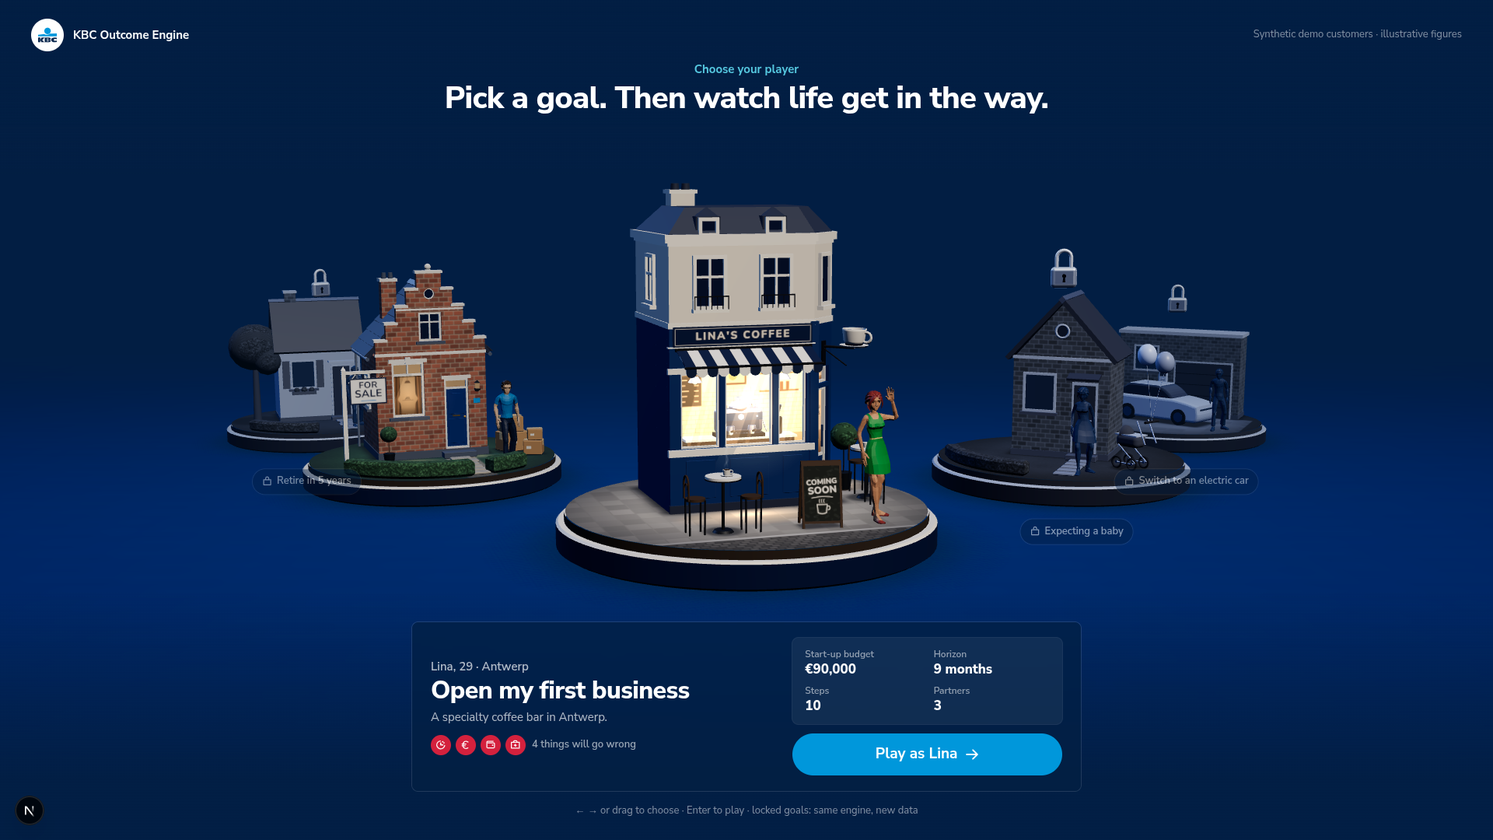
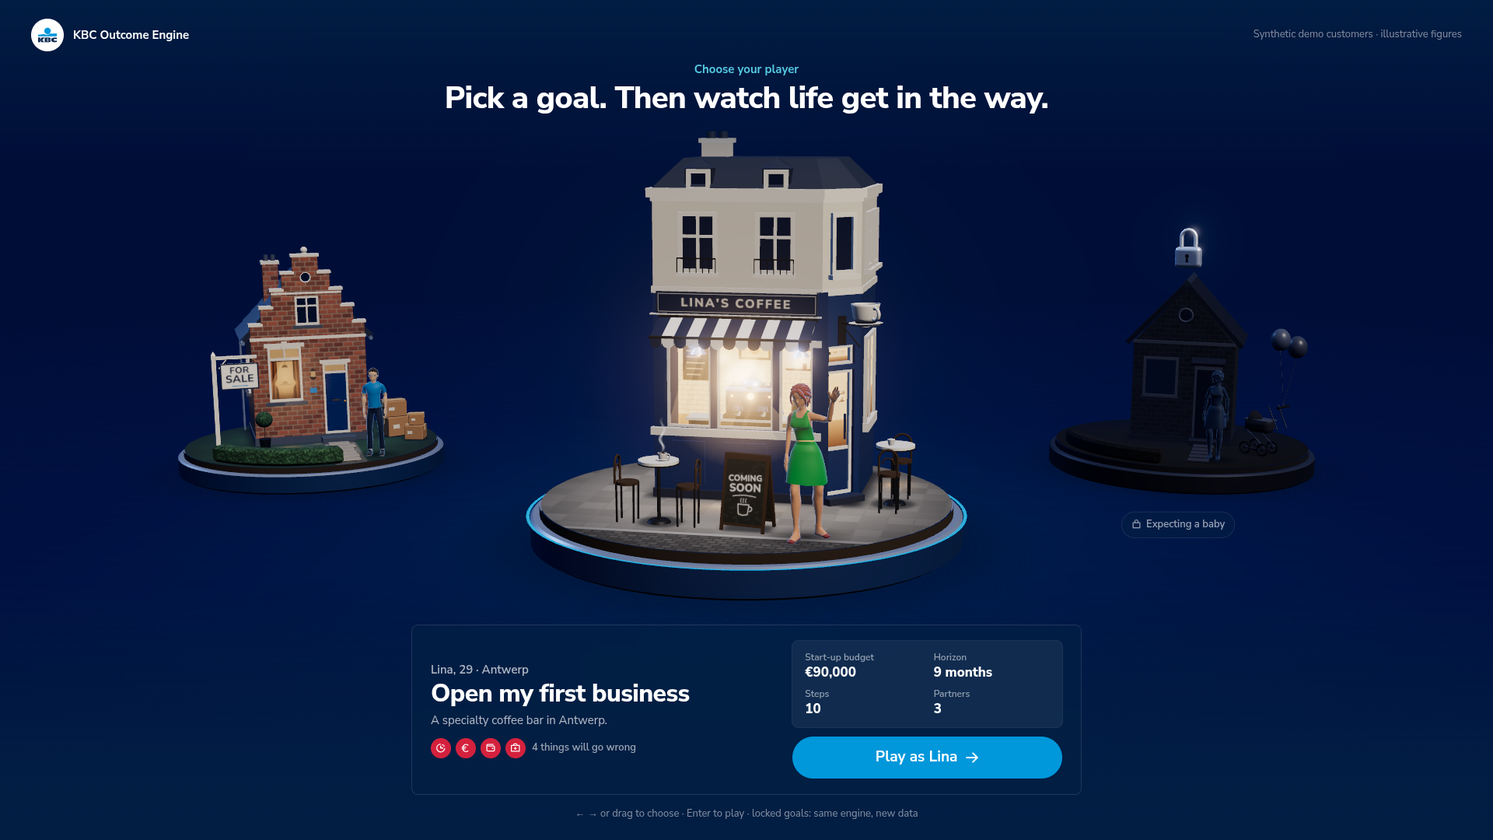
Picker 3D: second art pass (sharper window, glide into the phone, weighted people) + docs, prod screenshots, fps table
- Window texture 512×720 (the dive ends on it), scene exposure sinks into night before the light,
  bloom eases down during the dive; quarter-res bloom and DPR 1 with bloom (52 fps at 1080p).
- Handoff: 600 ms glide (no snap), home shows through from 380 ms, backdrop in 80 ms.
- People: Idle_Neutral, larger contact shadow. Stage top 2.85 so chimneys clear the headline.
- Doc: quality switches (?bloom=0, ?q=auto, ?q=low), choreography, decisions, DoD ticked.

diff --git a/web/src/components/picker/handoff.ts b/web/src/components/picker/handoff.ts
@@ -10,7 +10,7 @@ export interface ScreenRect { left: number; top: number; width: number; height: 
 const WARM = "#ffe2bd";
 const SCREEN = "#f2f2f2"; // KDL surface background = the phone screen colour
 const GLOW = "0 0 56px 6px rgb(255 207 150 / 0.35)";
-const EASE = "cubic-bezier(0.23, 1, 0.32, 1)";
+const EASE = "cubic-bezier(0.65, 0, 0.35, 1)"; // a glide, not a snap: the light travels ~200 px
 // Phone.tsx: 10px bezel and 50px inner radius at scale 1, frame FRAME_W × FRAME_H.
 const BEZEL = 10;
 const RADIUS = 50;
@@ -49,8 +49,10 @@ export function createHandoff(reduce: boolean): Handoff {
       Object.assign(card.style, { left: `${rect.left}px`, top: `${rect.top}px`, width: `${rect.width}px`, height: `${rect.height}px` });
       await Promise.all([
         card.animate([{ opacity: 0 }, { opacity: 1 }], { duration: ms, easing: "ease-out", fill: "forwards" }).finished,
-        backdrop.animate([{ opacity: 0 }, { opacity: 1 }], { duration: 260, easing: "ease-out", fill: "forwards" }).finished,
+        backdrop.animate([{ opacity: 0 }, { opacity: 1 }], { duration: 80, easing: "ease-out", fill: "forwards" }).finished,
       ]);
+      // Stage mounts now (250–300 ms): a slow breath so the light never looks frozen.
+      card.animate([{ filter: "brightness(1)" }, { filter: "brightness(1.12)" }, { filter: "brightness(1)" }], { duration: 600, iterations: Infinity, easing: "ease-in-out" });
     },
 
     async land() {
@@ -70,11 +72,11 @@ export function createHandoff(reduce: boolean): Handoff {
           { left: `${from.left}px`, top: `${from.top}px`, width: `${from.width}px`, height: `${from.height}px`, borderRadius: "3px", background: WARM, boxShadow: GLOW },
           { left: `${to.left}px`, top: `${to.top}px`, width: `${to.width}px`, height: `${to.height}px`, borderRadius: `${to.radius}px`, background: SCREEN, boxShadow: "0 0 0 0 rgb(255 207 150 / 0)" },
         ],
-        { duration: 480, easing: EASE, fill: "forwards" },
+        { duration: 600, easing: EASE, fill: "forwards" },
       );
-      const reveal = backdrop.animate([{ opacity: 1 }, { opacity: 0 }], { duration: 420, delay: 120, easing: "ease-out", fill: "forwards" });
+      const reveal = backdrop.animate([{ opacity: 1 }, { opacity: 0 }], { duration: 440, delay: 160, easing: "ease-out", fill: "forwards" });
       // The home screen shows through as the light lands, not after it.
-      const fade = card.animate([{ opacity: 1 }, { opacity: 0 }], { duration: 180, delay: 300, easing: "ease-out", fill: "forwards" });
+      const fade = card.animate([{ opacity: 1 }, { opacity: 0 }], { duration: 200, delay: 380, easing: "ease-out", fill: "forwards" });
       await Promise.all([morph.finished, reveal.finished, fade.finished]);
       remove();
     },

diff --git a/web/src/components/picker/PickerCanvas.tsx b/web/src/components/picker/PickerCanvas.tsx
@@ -42,7 +42,7 @@ const PERSON: Record<DioramaId, CharacterId> = { house: "thomas", business: "lin
 const CAM_POS = new THREE.Vector3(0, 2.9, 11.9);
 const CAM_LOOK = new THREE.Vector3(0, 0.5, -1.4);
 // Framing: the stage (roof tops to the plinth's front edge) is fitted into the free band.
-const STAGE_TOP = 2.65;
+const STAGE_TOP = 2.85; // Lina's chimney pots reach 2.83
 const STAGE_BOTTOM = -0.34;
 const BAND_MARGIN = 6;
 const CARD_GAP = 16; // Band.bottom sits this far above the card
@@ -51,6 +51,10 @@ const FLY_MS = 950;
 const SETTLE_MS = 350;
 const END_FOV = 26;
 const WINDOW_FILL = 0.86;
+const smoothstep = (a: number, b: number, x: number) => {
+  const t = Math.min(1, Math.max(0, (x - a) / (b - a)));
+  return t * t * (3 - 2 * t);
+};
 const ease = {
   inOutCubic: (x: number) => (x < 0.5 ? 4 * x * x * x : 1 - Math.pow(-2 * x + 2, 3) / 2),
 };
@@ -80,7 +84,8 @@ export default function PickerCanvas(props: PickerCanvasProps) {
       live.current.onFail("init");
       return;
     }
-    const dpr = Math.min(window.devicePixelRatio || 1, 1.5);
+    // Bloom works over a multisampled full-frame target: cap at DPR 1 then, or 150 % laptops drop to 25 fps.
+    const dpr = Math.min(window.devicePixelRatio || 1, quality.bloom ? 1 : 1.5);
     renderer.setPixelRatio(dpr);
     renderer.outputColorSpace = THREE.SRGBColorSpace;
     renderer.toneMapping = THREE.ACESFilmicToneMapping;
@@ -211,7 +216,7 @@ export default function PickerCanvas(props: PickerCanvasProps) {
       composer?.setPixelRatio(dpr);
       composer?.setSize(w, h);
       calmFrom = Math.max(calmFrom, performance.now() + 1500);
-      bloom.resolution.set((w * dpr) / 2, (h * dpr) / 2);
+      bloom.resolution.set((w * dpr) / 4, (h * dpr) / 4); // quarter resolution: a glow needs no detail
       view.w = w;
       view.h = h;
       if (!diving) fit();
@@ -367,8 +372,12 @@ export default function PickerCanvas(props: PickerCanvasProps) {
           camera.lookAt(tmp[4].lerpVectors(fromLook, wp, eLook));
           camera.fov = fromFov + (END_FOV - fromFov) * e;
           setViewY(fromViewY * (1 - eLook)); // end centred on screen
-          d.setFocus(1 + 0.3 * e); // a little brighter, never clipped: the curtains and lamp stay readable
+          d.setFocus(1 + 0.1 * e); // the curtains and lamp stay readable up close
           diveFade = e;
+          // The street sinks into night before the light takes over; the window ignores tone mapping and stays lit.
+          const night = smoothstep(0.72, 1, k);
+          renderer.toneMappingExposure = 1.1 * (1 - 0.9 * night);
+          bloom.strength = 0.55 * (1 - 0.65 * e);
           if (!covered && k >= 0.92) {
             covered = true;
             onCover(120, screenRect(d.window, box));

diff --git a/web/src/components/picker/dioramas.ts b/web/src/components/picker/dioramas.ts
@@ -359,8 +359,9 @@ function paintAwning(): HTMLCanvasElement {
 
 /** Warm room seen through a window: lamp-lit wall and curtains (luminance; tinted by the material colour). */
 function paintWindow(): HTMLCanvasElement {
-  const W = 128;
-  const H = 180;
+  const K = 4; // the dive ends with this window filling the screen: paint it at 512×720 (once)
+  const W = 128 * K;
+  const H = 180 * K;
   const { c, g } = makeCanvas(W, H);
   const bg = g.createRadialGradient(W * 0.5, H * 0.28, 4, W * 0.5, H * 0.42, H * 0.75);
   bg.addColorStop(0, "#ffffff");
@@ -370,21 +371,21 @@ function paintWindow(): HTMLCanvasElement {
   g.fillRect(0, 0, W, H);
   // pendant lamp
   g.fillStyle = "rgba(70,45,30,0.65)";
-  g.fillRect(W / 2 - 1, 0, 2, 22);
+  g.fillRect(W / 2 - K, 0, 2 * K, 22 * K);
   g.beginPath();
-  g.moveTo(W / 2 - 15, 34);
-  g.lineTo(W / 2 + 15, 34);
-  g.lineTo(W / 2 + 8, 22);
-  g.lineTo(W / 2 - 8, 22);
+  g.moveTo(W / 2 - 15 * K, 34 * K);
+  g.lineTo(W / 2 + 15 * K, 34 * K);
+  g.lineTo(W / 2 + 8 * K, 22 * K);
+  g.lineTo(W / 2 - 8 * K, 22 * K);
   g.closePath();
   g.fill();
   // a shelf with a plant silhouette in the back
   g.fillStyle = "rgba(90,60,40,0.35)";
-  g.fillRect(W * 0.3, H * 0.62, W * 0.4, 3);
+  g.fillRect(W * 0.3, H * 0.62, W * 0.4, 3 * K);
   g.fillStyle = "rgba(60,50,35,0.35)";
   for (let i = 0; i < 7; i++) {
     g.beginPath();
-    g.ellipse(W * 0.42 + i * 3, H * 0.6 - (i % 3) * 4, 5, 2.5, -0.6 + i * 0.25, 0, Math.PI * 2);
+    g.ellipse(W * 0.42 + i * 3 * K, H * 0.6 - (i % 3) * 4 * K, 5 * K, 2.5 * K, -0.6 + i * 0.25, 0, Math.PI * 2);
     g.fill();
   }
   // curtains (per pixel)
@@ -397,7 +398,7 @@ function paintWindow(): HTMLCanvasElement {
     for (let side = 0; side < 2; side++) {
       for (let x = 0; x < width; x++) {
         const px = side === 0 ? x : W - 1 - x;
-        const fold = 0.66 + 0.2 * Math.sin((x / W) * 46 + side * 1.7 + y * 0.01) - 0.18 * (x / width) * (1 - tie);
+        const fold = 0.66 + 0.2 * Math.sin((x / W) * 46 + side * 1.7 + (y / K) * 0.01) - 0.18 * (x / width) * (1 - tie);
         const i = (y * W + px) * 4;
         d[i] = 248 * fold;
         d[i + 1] = 196 * fold;
@@ -406,7 +407,7 @@ function paintWindow(): HTMLCanvasElement {
     }
   }
   // curtain rail
-  for (let y = 0; y < 6; y++) {
+  for (let y = 0; y < 6 * K; y++) {
     for (let x = 0; x < W; x++) {
       const i = (y * W + x) * 4;
       d[i] *= 0.45;

diff --git a/web/src/components/picker/characterGltf.ts b/web/src/components/picker/characterGltf.ts
@@ -30,7 +30,7 @@ const TINTS: Partial<Record<CharacterId, Record<string, string>>> = {
 const HEIGHT = 1.1;
 const SILHOUETTE = "#1a3152";
 
-const CLIPS: Record<Pose, string> = { idle: "Idle", wave: "Wave", cheer: "Wave" };
+const CLIPS: Record<Pose, string> = { idle: "Idle_Neutral", wave: "Wave", cheer: "Wave" }; // Idle is a combat stance
 const HOP = 0.12;
 
 // A thin cool rim (fresnel) that separates the people from brick walls and the navy background.
@@ -58,18 +58,19 @@ function blobShadow(): THREE.Mesh<THREE.PlaneGeometry, THREE.MeshBasicMaterial> 
     c.width = c.height = 64;
     const g = c.getContext("2d")!;
     const grad = g.createRadialGradient(32, 32, 0, 32, 32, 32);
-    grad.addColorStop(0, "rgba(0,8,24,0.62)");
-    grad.addColorStop(0.45, "rgba(0,8,24,0.34)");
+    grad.addColorStop(0, "rgba(0,8,24,0.78)");
+    grad.addColorStop(0.35, "rgba(0,8,24,0.45)");
     grad.addColorStop(1, "rgba(0,8,24,0)");
     g.fillStyle = grad;
     g.fillRect(0, 0, 64, 64);
     const tex = new THREE.CanvasTexture(c);
     tex.colorSpace = THREE.SRGBColorSpace;
-    blob = { geo: new THREE.PlaneGeometry(0.56, 0.4).rotateX(-Math.PI / 2), tex };
+    // Square: the ~10° camera squashes it into the right ellipse; smaller discs vanish behind the shoes.
+    blob = { geo: new THREE.PlaneGeometry(0.66, 0.66).rotateX(-Math.PI / 2), tex };
   }
   const mat = new THREE.MeshBasicMaterial({ map: blob.tex, transparent: true, depthWrite: false, toneMapped: false, polygonOffset: true, polygonOffsetFactor: -2 });
   const m = new THREE.Mesh(blob.geo, mat);
-  m.position.y = 0.004;
+  m.position.set(0, 0.004, 0.05);
   m.renderOrder = 1;
   return m;
 }

diff --git a/docs/features/persona-picker-3d.md b/docs/features/persona-picker-3d.md
@@ -1,5 +1,5 @@
 # Feature — 3D persona carousel at app start
-> Owner: peer session "README hackathon 2026" (ultracode) · Coordinator: kepa · App owner: Victor · Status: in progress (V1 integrated, polishing) · Last update: 12:45
+> Owner: peer session "README hackathon 2026" (ultracode) · Coordinator: kepa · App owner: Victor · Status: V1 on `main` (kepa 81f32f9, merged by the coordinator in 1556de3); art polish continues on `kepa` · Last update: 13:55
 
 ## Goal
 Replace the 2D "Choose your player" cards (`CharacterSelect.tsx`, Victor, see `outcome-engine.md`) with a **3D carousel of miniature life scenes**, then an **entry animation into the phone**, then the existing live demo, unchanged. It makes the app feel premium from the first second (Creativity + Pitch = 50%).
@@ -29,12 +29,12 @@ Replaces the paused "Lucas's World" (`pitch-3d.md`). Reuse its learnings: the Ir
 - Don't touch the engine, backend, or Victor's screens beyond the `Stage` swap.
 
 ## Definition of done
-- [ ] Carousel + entry animation work with keyboard, mouse/drag, and touch.
-- [ ] Fallback to the 2D picker is verified (WebGL off, `?q=low`, small viewport).
-- [ ] Full flow verified in a browser on a prod build: pick Thomas → full demo; C → back; pick Lina → full demo. No console or CSP errors.
-- [ ] fps measured on the GPU (`--use-angle=vulkan --enable-features=Vulkan --ignore-gpu-blocklist`), high + fallback.
-- [ ] `npm run lint`, `npm test`, `npm run build` green in `web/`.
-- [ ] Screenshots in `docs/screenshots/picker-3d/`; this doc + `SOLUTION.md` updated; Victor informed.
+- [x] Carousel + entry animation work with keyboard, mouse/drag, and touch.
+- [x] Fallback to the 2D picker is verified (WebGL off, `?q=low`, small viewport; `?q=auto` on a throttled GPU).
+- [x] Full flow verified in a browser on a prod build: pick Thomas → full demo; C → back; pick Lina → full demo. No console or CSP errors (13:13, kepa 81f32f9).
+- [x] fps measured on the GPU (`--use-angle=vulkan --enable-features=Vulkan --ignore-gpu-blocklist`), high + fallback (table below).
+- [x] `npm run lint`, `npm test`, `npm run build` green in `web/`.
+- [x] Screenshots in `docs/screenshots/picker-3d/`; this doc + `SOLUTION.md` updated. Victor: Stage.tsx swap flagged "Victor FYI" in e8dbf30; the coordinator relays.
 
 ## Implementation plan (12:10)
 
@@ -63,21 +63,26 @@ Replaces the paused "Lucas's World" (`pitch-3d.md`). Reuse its learnings: the Ir
 **Play, step by step:**
 1. **Trigger.** Enter (Stage calls `pickerPlay.current`), a click on the centred diorama, or the "Play as …" button.
 2. **Overlay.** `createHandoff()` puts a fixed overlay on `document.body`.
-3. **Dive.** `PickerCanvas` settles the turntable to face the camera, then flies the camera into the lit window (ease-in, FOV 30 → 26, about 0.9 s). At 68% of the flight it calls `cover()`: the warm light fades in over the 3D scene.
-4. **Mount.** `onPlay(id)` lets Stage switch to `home`; the picker unmounts and disposes its WebGL context.
-5. **Land.** `land()` waits for `[data-phone-anchor]`, measures it, then:
-   - morphs the light (WAAPI) into the phone screen: inset by the 10 px bezel × scale, 50 px radius × scale, warm → `#F2F2F2`;
-   - fades the night backdrop so the phone frame and the HUD appear around it;
-   - fades the light out to reveal the home screen. Kate's notification follows as before.
-6. **Reduced motion.** A 200 ms crossfade instead of the dive.
+3. **Dive (950 ms).** The UI and its scrims leave (160 ms, 12 px down). In parallel, the turntable settles to face the camera (350 ms), the person cheers (Wave + one 0.12 hop), and the camera flies onto the lit window's axis:
+   - ease-in-out, FOV → 26, the band view offset → 0;
+   - it stops where the window fills 86% of the screen height;
+   - the window's glow rises a little (×1.3, never clipped) and its halo fades out.
+4. **Cover.** At 92% of the flight it projects the window's 4 corners and calls `cover(120, rect)`. A warm card lights exactly that rectangle while the night backdrop (260 ms) hides the rest of the scene. No full-screen flash on a dark projector.
+5. **Mount.** `onPlay(id)` lets Stage switch to `home` behind the backdrop; the picker unmounts and disposes its WebGL context (its mount hitch is hidden).
+6. **Land.** `land()` waits for `[data-phone-anchor]`, measures it, then:
+   - morphs the window rectangle (WAAPI, 480 ms) into the phone screen: inset by the 10 px bezel × scale, 50 px radius × scale, warm → `#F2F2F2`;
+   - fades the backdrop so the phone frame and the HUD appear around it;
+   - fades the card out from 300 ms, so the home screen shows through as it lands. Kate's notification follows as before. About 1.7 s from Enter to the home screen.
+7. **Reduced motion.** A 200 ms crossfade instead of the dive.
 
 **Carousel:**
 - Cover-flow order: retire · **Thomas** · **Lina** · baby · car.
+- **Framing:** `CharacterSelect3D` measures the free band between the headline and the player card. `PickerCanvas` shrinks the FOV (never enlarges) and sets a camera view offset so the stage (roofs to plinth front) sits centred in that band; picking and the DOM overlay follow the camera. Under 860 px height the card collapses to one line of facts. Checked at 1920×1080, 1536×864, 1366×768 and 1280×720.
 - Critically damped spring on a continuous `focus` index. A drag maps pixels to focus; release snaps to the nearest playable item. A tap is a raycast: a side item selects, the centred item plays, a locked item wiggles.
 - Each diorama sways gently on its turntable; off under reduced motion.
 - DOM over the canvas:
   - one focusable `role=radio` button per diorama, with `aria-label` (pointer-events off, so drags reach the canvas);
-  - lock captions under the locked goals;
+  - lock captions centred under the locked goals' plinths (hidden if they would overlap the card);
   - the player card (name, goal, stats, the 4 event badges from `EventBadge`, Play).
 
 **People:**
@@ -86,27 +91,43 @@ Replaces the paused "Lucas's World" (`pitch-3d.md`). Reuse its learnings: the Ir
 - `characterGltf.ts`:
   - loads each file once (same origin, works offline, no decoder, CSP unchanged) and clones per character with `SkeletonUtils`;
   - recolours with the tokens (Thomas top `#0097DB`, Lina dress `#00903D`, skin/hair as in Victor's avatars) and normalises to 1.1 units on the diorama's `stand`;
-  - poses: `AnimationMixer` Idle; Wave when centred (every ~7.5 s); Wave × 1.5 + a hop on Play, before the dive. Locked goals are night-blue silhouettes.
+  - poses: `AnimationMixer` Idle; Wave when centred (every ~7.5 s); Wave + a 0.12 hop on Play, before the dive. Locked goals are dim night-blue silhouettes (dimmer rim).
+  - merged + recomputed normals (soft, not faceted), a small emissive lift, a fresnel rim light, and a soft contact shadow under the feet (one quad, no shadow map) that tightens during the hop.
 
 **Scenes (`dioramas.ts`, procedural):**
 - Thomas: a stepped-gable Flemish brick house, slate roof, white frames, a lit window with a lamp (the dive target), FOR SALE sign, 4 moving boxes, hedges, a path.
 - Lina: "LINA'S COFFEE" in navy with a striped awning, an espresso machine glowing behind the window, a COMING SOON A-frame, bistro tables with a steaming cup.
-- Locked: a cottage + bench (retire), a house + stroller + balloons (baby), an electric car + wall box (car), each with a padlock.
+- Locked: a cottage + bench (retire), a house + stroller + balloons (baby), an electric car + wall box (car), each with a padlock. Their colours are compressed to night silhouettes so the two players lead; the padlock stays the one bright cue.
+- Plinth: navy `#1E3D66` body with a steel ledge; a thin KBC-blue (`#0097DB`, unlit) selection ring under the centred plinth.
+- People stand in front of the facades, turned slightly to the camera, clear of the window, door sign and boards.
 - Canvas textures only.
 
 **Render:**
-- `WebGLRenderer` (DPR ≤ 1.5), ACES, hemisphere + key + rim lights. No point lights, no shadow maps.
-- **Default: native MSAA, no post-processing, plus additive window halos** (one sprite per lit window). Bloom (half resolution, MSAA half-float target) is opt-in with `?bloom=1` for strong GPUs.
-- Governor: only sustained drops count; it ignores start-up, asset uploads and resizes. Under 45 fps for 2 s it drops bloom (if it was on). Under 30 fps for 2.5 s it switches to the 2D picker. A lost WebGL context also falls back.
+- `WebGLRenderer` (DPR ≤ 1.5), ACES, hemisphere + key + rim lights. No point lights, no shadow maps. Fog `12.5 → 19.5` so the neighbours recede; an unlit radial floor pool under the centred scene.
+- **Production default = high quality (user, 13:15): bloom (half resolution) over an MSAA ×4 half-float target, plus additive window halos. It never downgrades itself.**
+- Manual quality switches (URL):
+
+  | Switch | Effect |
+  |---|---|
+  | (none) | 3D, bloom + MSAA, no automatic downgrade |
+  | `?bloom=0` | 3D, native MSAA, no bloom |
+  | `?q=auto` | 3D with the fps governor: sustained < 45 fps for 2 s drops bloom; < 30 fps for 2.5 s hands over to the 2D picker |
+  | `?q=low` | Victor's 2D picker |
+
+- Always-on fallbacks: no WebGL2, a lost WebGL context, a narrow (compact) viewport or a deep link → the 2D picker.
 - Debug: `window.__picker = { fps, calls, triangles, bloom }`.
 
-## Measured performance (12:40, Intel Iris Xe, Chrome + Vulkan)
-| Setting | fps (steady) | Draw calls | Triangles |
-|---|---|---|---|
-| 1920×1080, default (MSAA + halos) | **60** | 133 | 51k |
-| 1920×1080, `?bloom=1` (bloom + MSAA) | 31–41, so the governor drops bloom → 56–58 | 145 | 51k |
-| 1600×900, bloom (earlier build) | 53 | 145 | 51k |
-| Fallback (Victor's 2D picker) | n/a (DOM only) | 0 | 0 |
+## Measured performance (13:55, prod build, Intel Iris Xe, Chrome + Vulkan, GPU otherwise idle)
+| Setting | fps idle (worst frame) | fps during the dive | Draw calls | Triangles |
+|---|---|---|---|---|
+| 1920×1080, default (bloom + MSAA ×4, DPR 1) | **52** (33 ms) | 50 | 118 | 38k |
+| 1920×1080, `?bloom=0` (native MSAA + halos, DPR ≤ 1.5) | **60** (17 ms) | 60 | 104 | 38k |
+| 1280×720, default | **60** (17 ms) | 60 | 118 | 38k |
+| Fallback (Victor's 2D picker) | n/a (DOM only) | – | 0 | 0 |
+
+Bloom costs about 8 fps at 1080p on this integrated GPU (quarter-resolution glow, DPR capped at 1 when bloom is on). On a weak presenter laptop use `?bloom=0` or `?q=auto`; there is no automatic downgrade by default (user decision).
+
+Screenshots (prod build): `docs/screenshots/picker-3d/select-*.png`, `dive-1…5`.
 
 ## Decisions (and why)
 - **Victor's players, not the 6 Supabase personas** (user, 12:00): they already have full journeys and disruptions; the least risk before 16:00.
@@ -119,7 +140,10 @@ Replaces the paused "Lucas's World" (`pitch-3d.md`). Reuse its learnings: the Ir
   - Stage lays the phone out differently with or without the HUD (≥ 1100 px).
   - The overlay measures the real phone (`data-phone-anchor`), so the light lands exactly on it.
   - It lives outside React so it survives the picker unmounting.
-- **Halos instead of bloom:** bloom + MSAA at 1080p costs ~20–30 fps on an integrated GPU, and the automatic drop caused a visible switch. Sprites give the soft window glow for almost nothing.
+- **High quality by default, no automatic downgrade (user, 13:15):** production (Vercel) runs bloom + MSAA. The governor stays available behind `?q=auto`, and `?q=low` / `?bloom=0` are the manual escape hatches for a weak laptop. Halo sprites stay as well: they carry the window glow when bloom is off.
+- **The light lands on the window, not the whole screen (art review, 13:00):** a full-screen warm fill jumped mean brightness from 37 to 230 on a dark projector, and the window never visibly became the phone. Now the warm card covers about 30% of the frame and morphs from the window's own rectangle.
+- **Kept as in Victor's 2D picker:** Lina's dress `#00903D` and the `text-kate` eyebrow (the art review suggested terracotta and `text-accent`). The players must look the same in 2D and 3D; changing his palette is Victor's call.
+- **`devIndicators` untouched:** shared Next config. We present and take screenshots from a prod build (`next build && next start`) instead.
 - **CC0 people, procedural scenes:**
   - The user asked for real 3D people, and rigged CC0 models with animation clips beat anything procedural in the time we had.
   - For the scenes it was the reverse. The procedural Flemish house and coffee bar read more premium and on-brand than the CC0 Kenney buildings we evaluated. Those were downloaded with the user's approval and inspected clean, but they are not used and not committed.

diff --git a/SOLUTION.md b/SOLUTION.md
@@ -86,7 +86,7 @@ Authentication, LLM decisioning, Kate voice, real partner integrations.
 | Supabase catalogue + data | Simon | done (applied + loaded) | `bank-data.md` |
 | Supabase live data in the demo (Sofie + signals, offline snapshot) | kepa | done on `main`; **not wired into the UI on branch `victor`** (Victor's call: static players Thomas + Lina for now). `bank.ts`, `bankSnapshot.ts`, `bankClient.ts` and their tests are kept as is. | `supabase-live-data.md` |
 | Pitch 3D "Lucas's World" (`pitch3d/`, three.js, 7 beats, Supabase snapshot) | Kepa UI terminal | **paused** (V1 works on `kepa`, not merged) | `pitch-3d.md` |
-| 3D persona carousel at app start (`web/src/components/picker/`, three.js, CC0 people, procedural scenes, 2D fallback) | Kepa UI terminal | in progress: V1 integrated on `kepa` (60 fps at 1080p on Iris Xe) | `persona-picker-3d.md` |
+| 3D persona carousel at app start (`web/src/components/picker/`, three.js, CC0 people, procedural scenes, 2D fallback) | Kepa UI terminal | V1 on `main` (1556de3); art polish on `kepa`. High quality by default (bloom + MSAA); `?q=low` → 2D | `persona-picker-3d.md` |
 | Deck + demo (GIF/video) | — | todo | — |
 | Security (Aikido) + public repo | Kepa UI terminal (hardening) · user/Simon (Aikido) | in progress: headers + CSP done, Aikido not connected | `docs/features/security.md` |
 
@@ -121,3 +121,9 @@ Authentication, LLM decisioning, Kate voice, real partner integrations.
 - **11:48** — Pitch 3D "Lucas's World" V1 **paused** by the user (too big). It works on `kepa` (`pitch3d/`): 7 beats from Lucas's Supabase rows, low-quality mode, fps measured on an Intel Iris Xe (high 25–54, low 40–59 at 1080p), screenshots in `docs/screenshots/3d/`. Not merged into `main`.
 - **12:24** — Backend review (7 parallel reviewers + an end-to-end HTTP run): `backend/REVIEW.md`. 10 P0 to fix before 15:00 (simulate DoS, scenario A not choosable, double injection, Kate on a frozen fixture, unprotected write API, Nadia/Pieter 500…), each with an owner.
 - **12:45** — 3D persona carousel V1 on `kepa`. Thomas and Lina are CC0 rigged people (Quaternius, user-approved download, credited) standing in a procedural Flemish house and Lina's coffee bar. Locked goals are silhouettes. Entry dive: the window light morphs into the measured phone screen. Victor's 2D picker is the fallback. 60 fps at 1080p on an Intel Iris Xe. Stage diff: 6 lines.
+- **13:35** — 3D picker after an adversarial art review, merged into `main` by the coordinator (kepa 81f32f9 → main 1556de3). Changes:
+  - the stage fits the free band at any screen size (720p projectors no longer hide the plinths);
+  - the dive stops on the lit window, and the light lands on the window's own rectangle and morphs into the phone (no full-screen flash);
+  - locked goals are night silhouettes, there is a KBC-blue selection ring, and the people have contact shadows;
+  - production default is high quality (bloom + MSAA, no automatic downgrade; `?q=low`, `?bloom=0`, `?q=auto` are manual switches).
+  Prod full flow Thomas → C → Lina: 0 console/CSP errors.
